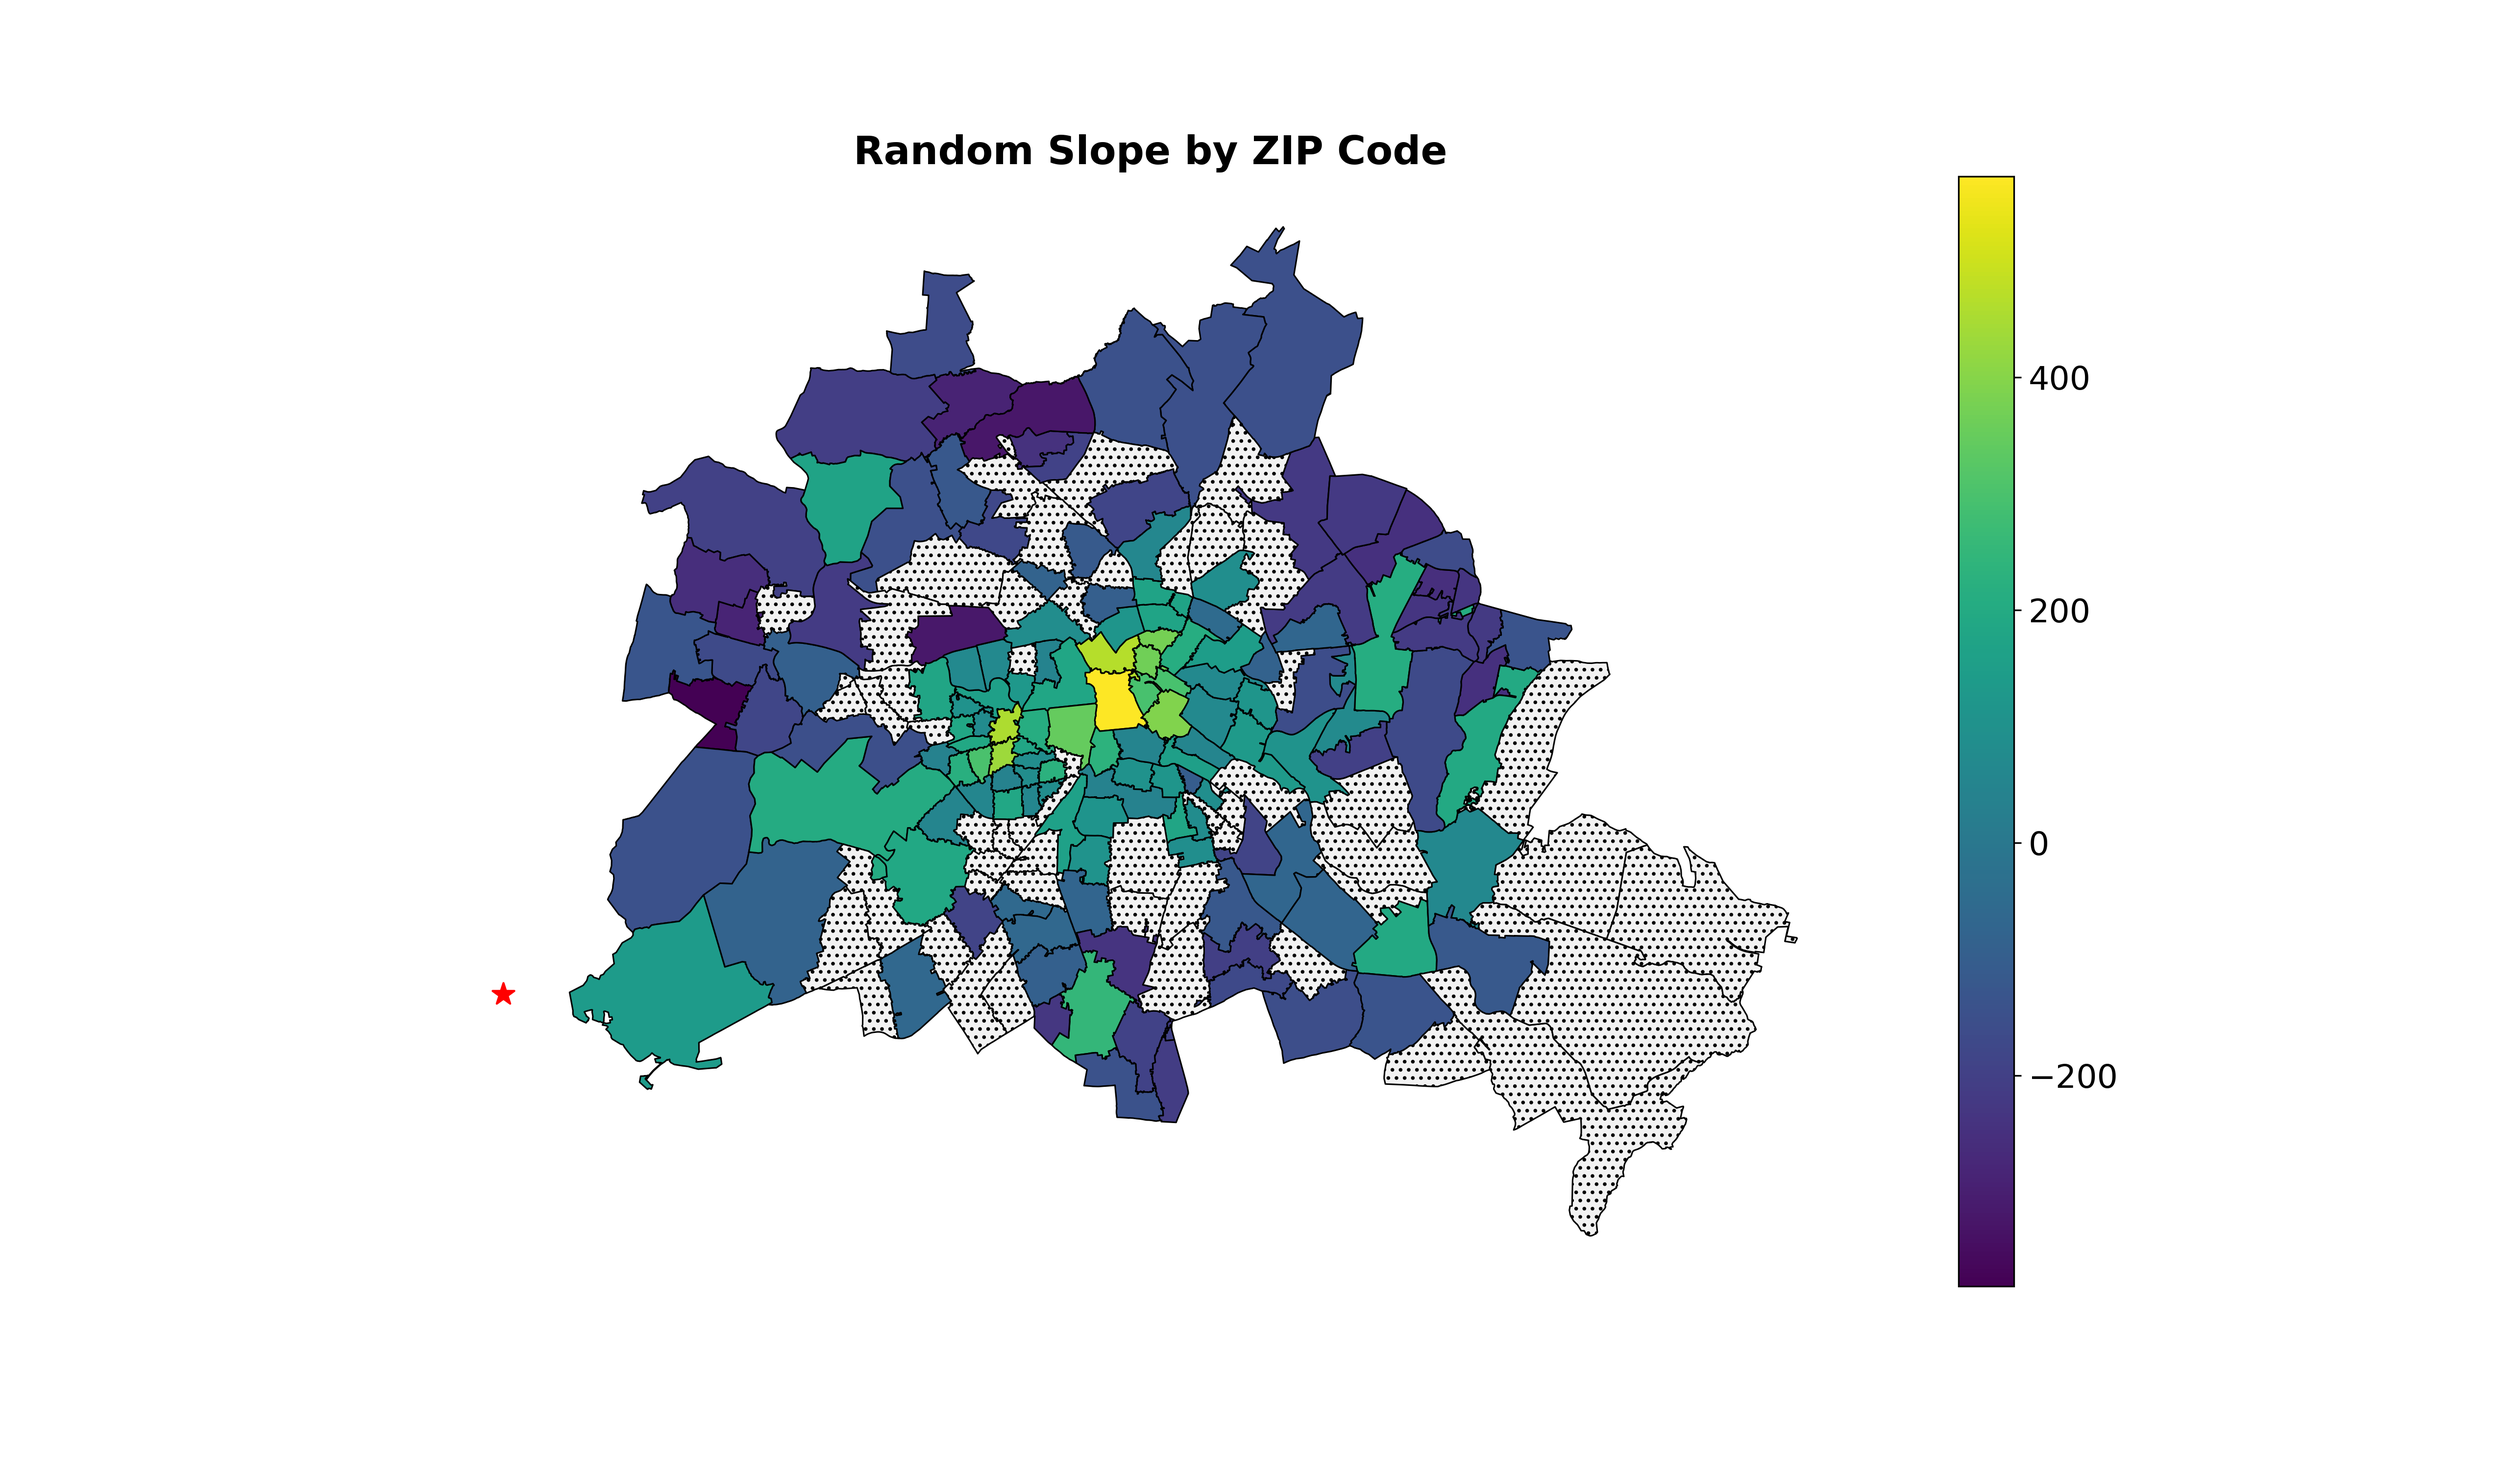
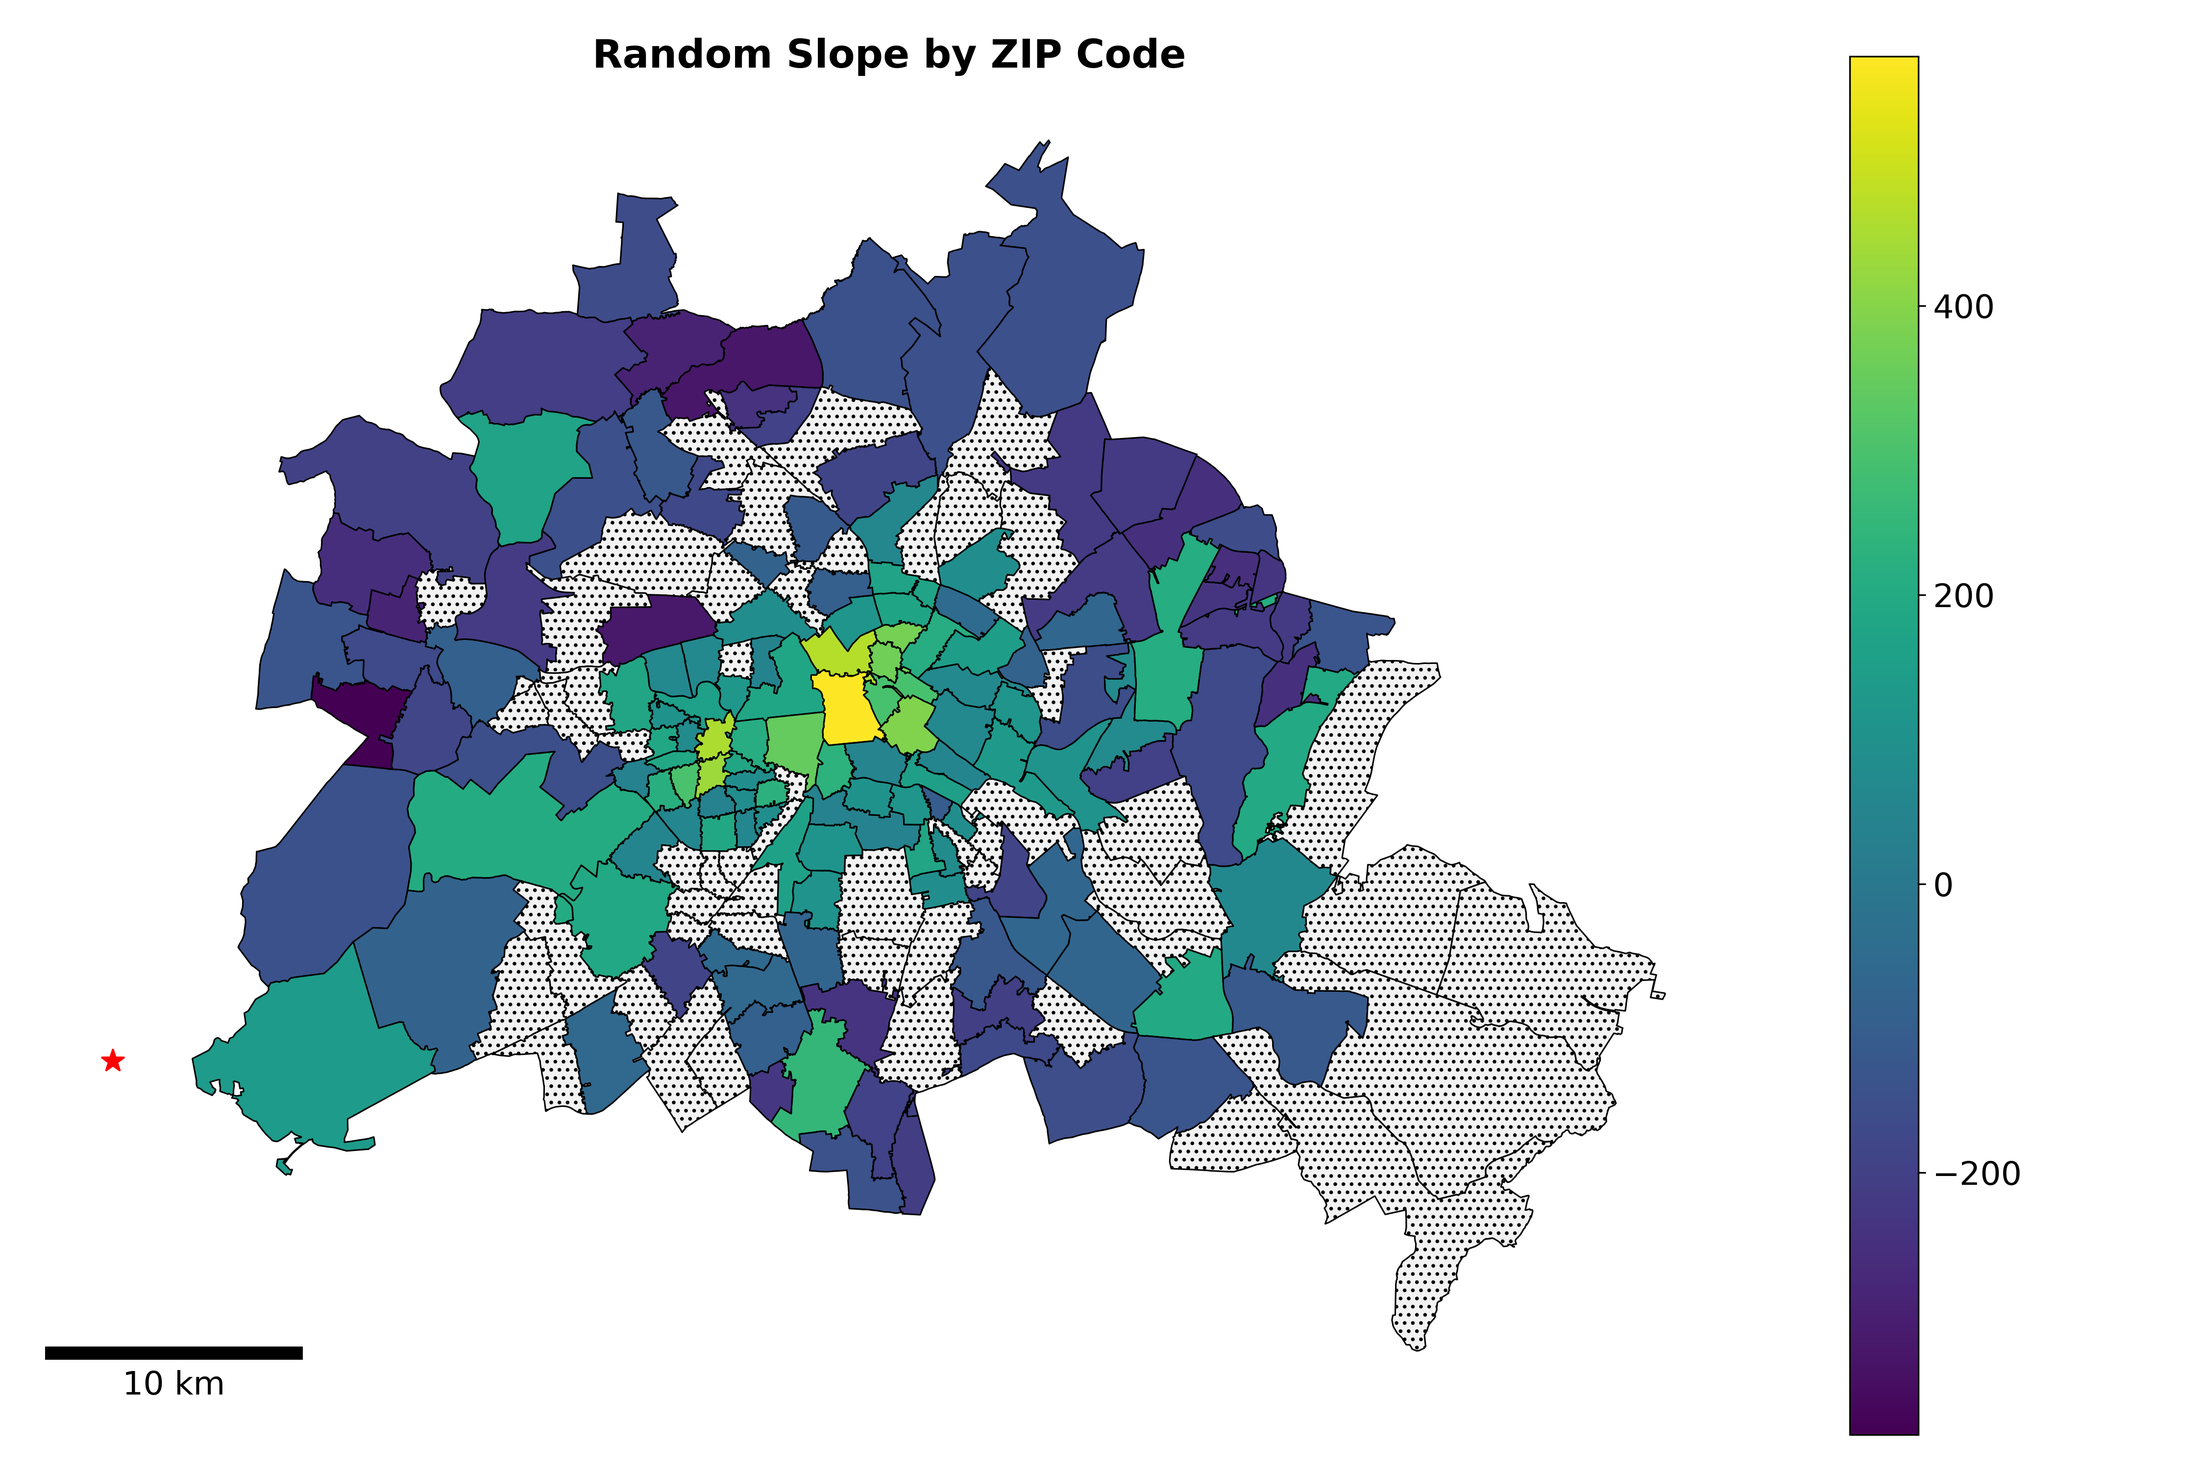
scalebar

diff --git a/scripts/prediction_plots.py b/scripts/prediction_plots.py
@@ -91,8 +91,16 @@ merged = merged.assign(
 
 #%%
 from mpl_toolkits.axes_grid1 import make_axes_locatable
+from matplotlib_scalebar.scalebar import ScaleBar
 
-fig, ax = plt.subplots(figsize=(17, 10))
+fig, ax = plt.subplots(figsize=(15, 10))
+merged = merged.to_crs(4326)
+
+from shapely.geometry.point import Point
+
+points = gpd.GeoSeries([Point(-73.5, 40.5), Point(-74.5, 40.5)], crs=4326)  # Geographic WGS 84 - degrees
+points = points.to_crs(32619) # Projected WGS 84 - meters
+distance_meters = points[0].distance(points[1])
 
 merged.plot(
     column="pointestimate_sig",
@@ -109,4 +117,7 @@ ax.set_xticks(())
 ax.set_yticks(())
 ax.set_title("Random Slope by ZIP Code", weight="bold")
 sns.despine(left=True, bottom=True)
+
+ax.add_artist(ScaleBar(distance_meters, location="lower left"))
+plt.tight_layout()
 plt.savefig(ROOT_DIR + "documents/plots/geoplot.png", dpi=300, facecolor="w")
